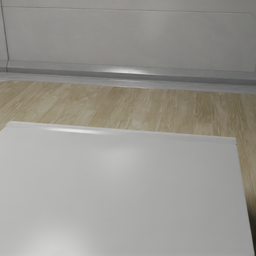
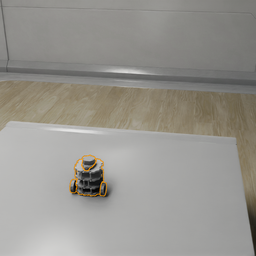
add origin room usd file

Changed region(s): [[0.25, 0.5938, 0.4688, 0.8125]]

diff --git a/voxposer/task.py b/voxposer/task.py
@@ -144,7 +144,7 @@ class PutRubbishInBin(BaseTask):
         #  add the scene usd file like rubbish and bin
         bin_usd_path = "/home/ps/isaacsim42/isaac_sim_voxposer/scene_obj_usd/bin_no_reference.usd"
         bin_prim_path = "/World/Steel_bin"
-        room_usd_path = "/home/ps/isaacsim42/isaac_sim_voxposer/scene_obj_usd/sample_room_move.usd"
+        room_usd_path = "/home/ps/isaacsim42/isaac_sim_voxposer/scene_obj_usd/sample_room_origin.usd"
         room_prim_path = "/World/Room"
         # rubbish_usd_path = "/home/ps/Desktop/usd_change/rubbish.usd"
         # rubbish_prim_path = "/World"
@@ -171,7 +171,8 @@ class PutRubbishInBin(BaseTask):
         self.franka_robot = world.scene.add(Franka(
             name='franka',
             prim_path='/World/franka',
-            position=[-0.5, 0, 3.9],
+            position=[0, 0, 0],
+            # position=[-0.5, 0, 3.9],
             orientation=[1.,0.,0.,0.]
         ))
 
@@ -269,10 +270,10 @@ class PutRubbishInBin(BaseTask):
         self.cameras_root.set_world_pose(position=[0,0,5])
         
         print('相机创建完成')
-        # vp_utils.get_active_viewport().set_active_camera("/World/cameras/front")
+        vp_utils.get_active_viewport().set_active_camera("/World/cameras/front")
         # from omni.isaac.core.utils.prims import delete_prim
 
-        delete_prim("/World/Room/turtlebot_tutorial/ActionGraph_drive")
+        # delete_prim("/World/Room/turtlebot_tutorial/ActionGraph_drive")
 
 
     def get_cam(self):
